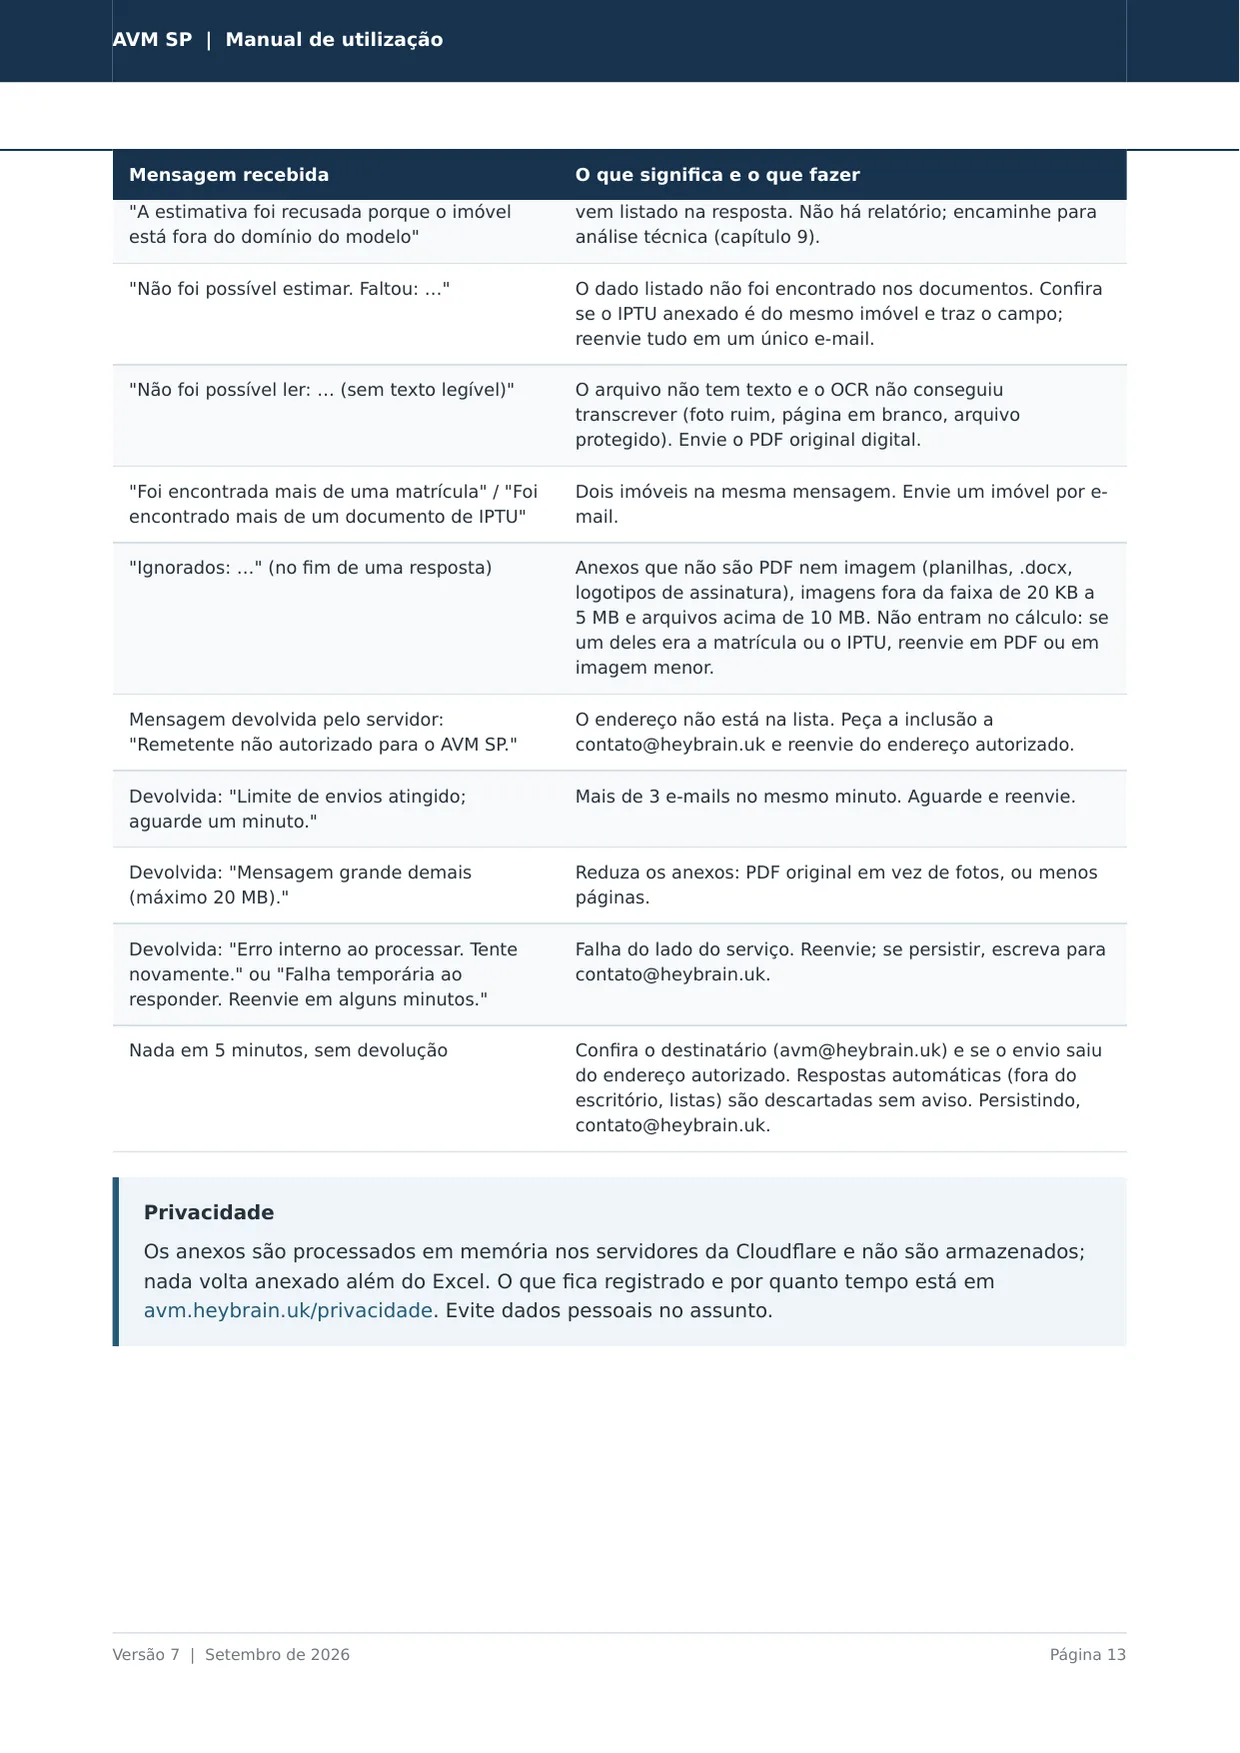
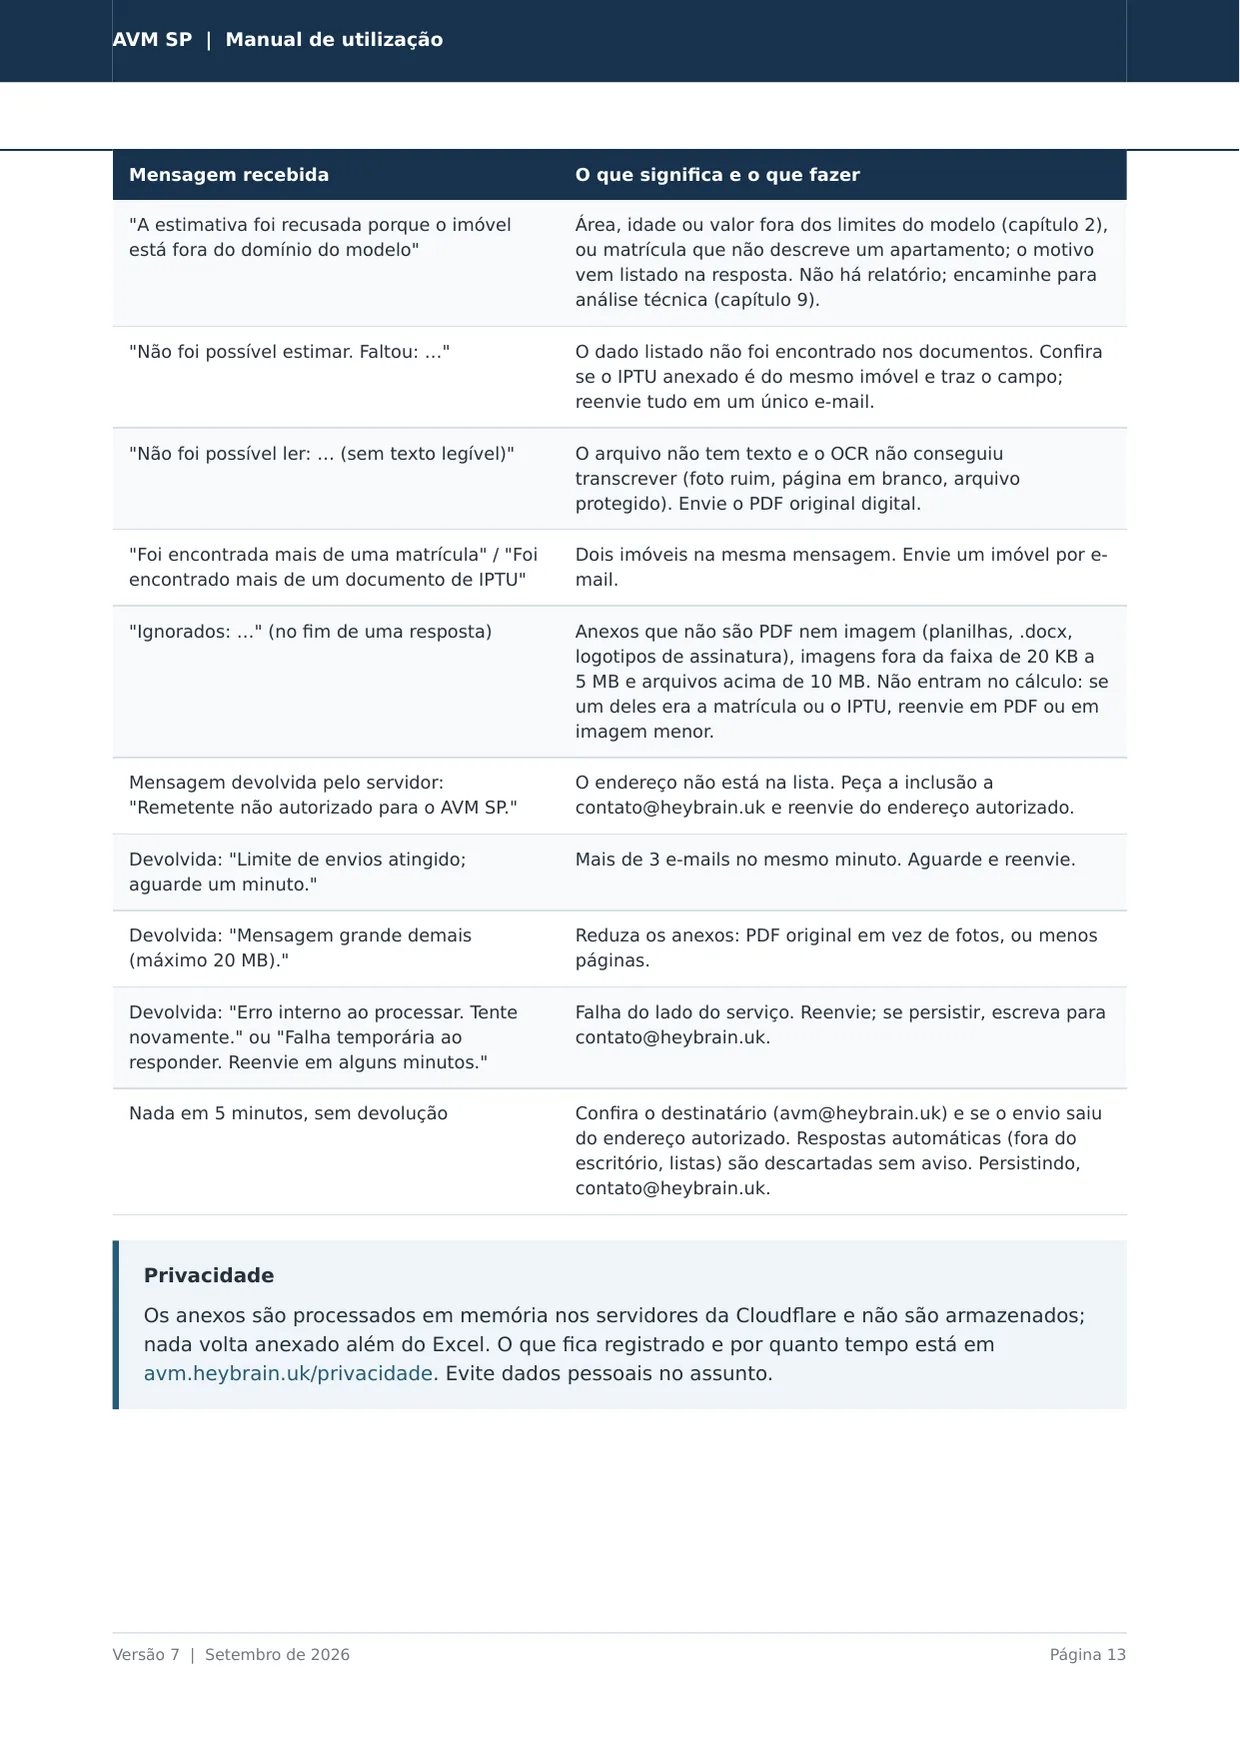
Manual: linha de tabela nunca é cortada entre páginas (page-break-inside: avoid); PDF e páginas regenerados

diff --git a/tools/manual-pdf.html b/tools/manual-pdf.html
@@ -71,6 +71,7 @@ table { width: 100%; border-collapse: collapse; margin: 10pt 0 12pt; font-size: 
 th { padding: 6pt 8pt; background: var(--azul); color: #fff; text-align: left; font-size: 8.5pt; }
 td { padding: 6pt 8pt; border-bottom: 0.75pt solid var(--linha); vertical-align: top; }
 tbody tr:nth-child(even) td { background: var(--zebra); }
+tbody tr { page-break-inside: avoid; }
 table.etapas td { width: 25%; }
 
 /* Passos numerados */
